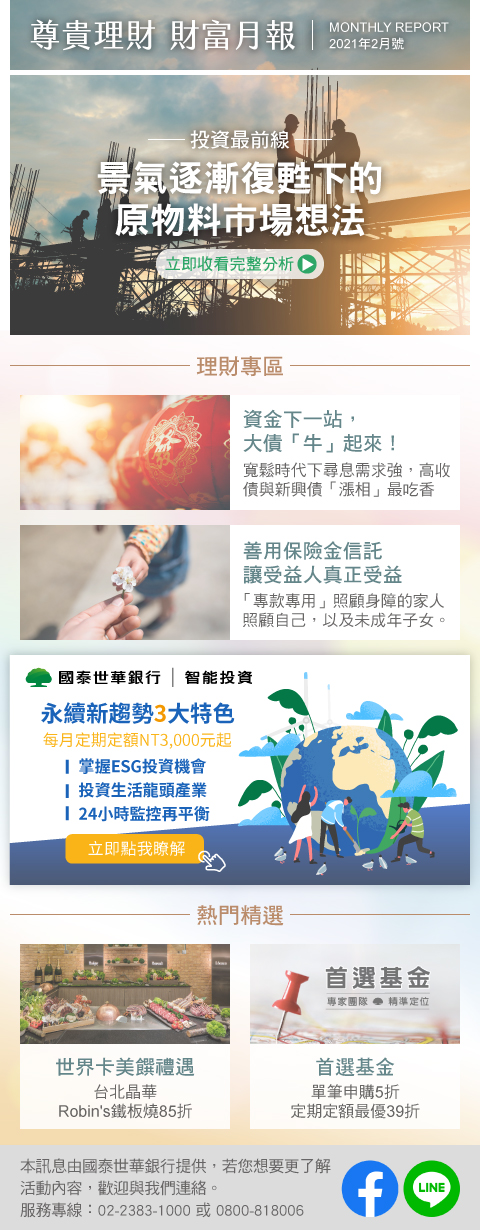
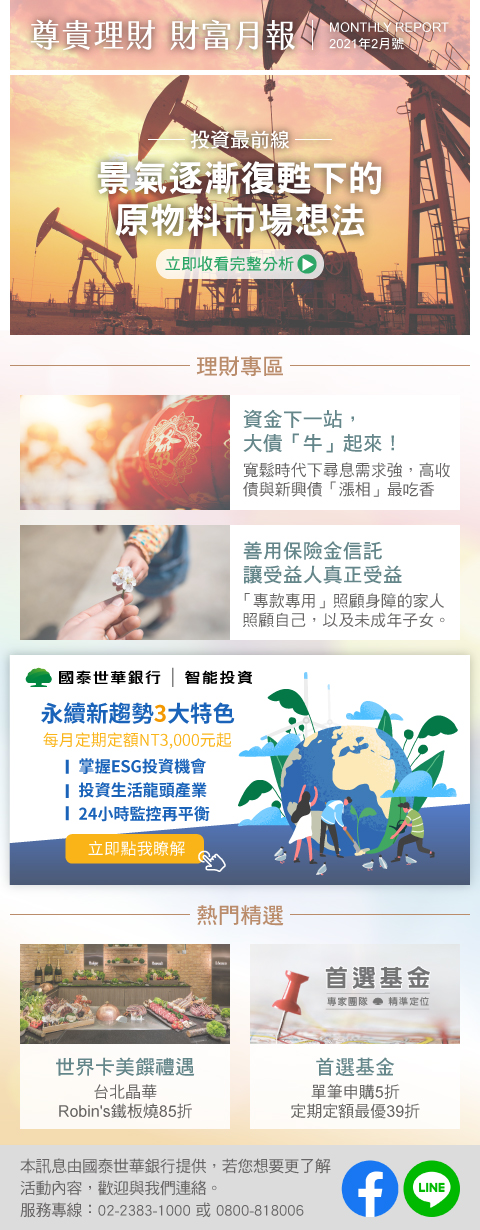
update

Changed region(s): [[0.0, 0.0, 1.0, 0.278]]

diff --git a/monthly-report-202102/index.html b/monthly-report-202102/index.html
@@ -391,9 +391,9 @@ font-family:'Microsoft JhengHei',Arial,'微軟正黑體', sans-serif;
 </center>
 
 <map name="Map">
-  <area shape="rect" coords="9,74,471,336" href="https://youtu.be/p-ACythalBc?CUB_SRC=EDM&CUB_CHL1=URL&CUB_CHL2=01&MA_TK=WM564&CUB_DT=20210220" target="_blank" alt="-投資最前線- 景氣逐漸復甦下的原物料市場想法">
-  <area shape="rect" coords="19,525,458,641" href="https://www.cathaybk.com.tw/cathaybk/personal/wealth/trust/articles/13/?CUB_SRC=EDM&CUB_CHL1=URL&CUB_CHL2=01&MA_TK=WM564&CUB_DT=20210220" target="_blank" alt="善用保險金信託 讓受益人真正受益 ">
-  <area shape="rect" coords="19,394,457,511" href="https://www.cathaybk.com.tw/cathaybk/personal/wealth/market/report/monthly-topic/202102/?CUB_SRC=EDM&CUB_CHL1=URL&CUB_CHL2=01&MA_TK=WM564&CUB_DT=20210220" target="_blank" alt="資金下一站，大債「牛」起來！">
+  <area shape="rect" coords="9,74,471,336" href="https://youtu.be/WMwiK5wfE6U?CUB_SRC=EDM&CUB_CHL1=URL&CUB_CHL2=01&MA_TK=WM564&CUB_DT=20210220" target="_blank" alt="-投資最前線- 景氣逐漸復甦下的原物料市場想法">
+  <area shape="rect" coords="19,525,461,641" href="https://www.cathaybk.com.tw/cathaybk/personal/wealth/trust/articles/13/?CUB_SRC=EDM&CUB_CHL1=URL&CUB_CHL2=01&MA_TK=WM564&CUB_DT=20210220" target="_blank" alt="善用保險金信託 讓受益人真正受益 ">
+  <area shape="rect" coords="19,394,461,511" href="https://www.cathaybk.com.tw/cathaybk/personal/wealth/market/report/monthly-topic/202102/?CUB_SRC=EDM&CUB_CHL1=URL&CUB_CHL2=01&MA_TK=WM564&CUB_DT=20210220" target="_blank" alt="資金下一站，大債「牛」起來！">
   <area shape="rect" coords="9,655,471,886" href="https://www.cathayrobo.com/welcome/themeinvest?CUB_SRC=EDM&CUB_CHL1=URL&CUB_CHL2=01&MA_TK=WM564&CUB_DT=20210220&utm_source=CUBLETTER&utm_medium=BANNER&utm_campaign=ESG" target="_blank" alt="生活投資挖掘永續發展優勢，掌握ESG投資契機">
   <area shape="rect" coords="20,943,231,1130" href="https://www.cathaybk.com.tw/cathaybk/personal/credit-card/cards/intro/world/?CUB_SRC=EDM&CUB_CHL1=URL&CUB_CHL2=01&MA_TK=WM564&CUB_DT=20210220#tab-02" target="_blank" alt="世界卡美饌禮遇">
   <area shape="rect" coords="251,944,462,1130" href="https://www.cathaybk.com.tw/cathaybk/personal/investment/fund/event/expertfund/?CUB_SRC=EDM&CUB_CHL1=URL&CUB_CHL2=01&MA_TK=WM564&CUB_DT=20210220" target="_blank" alt="首選基金">
